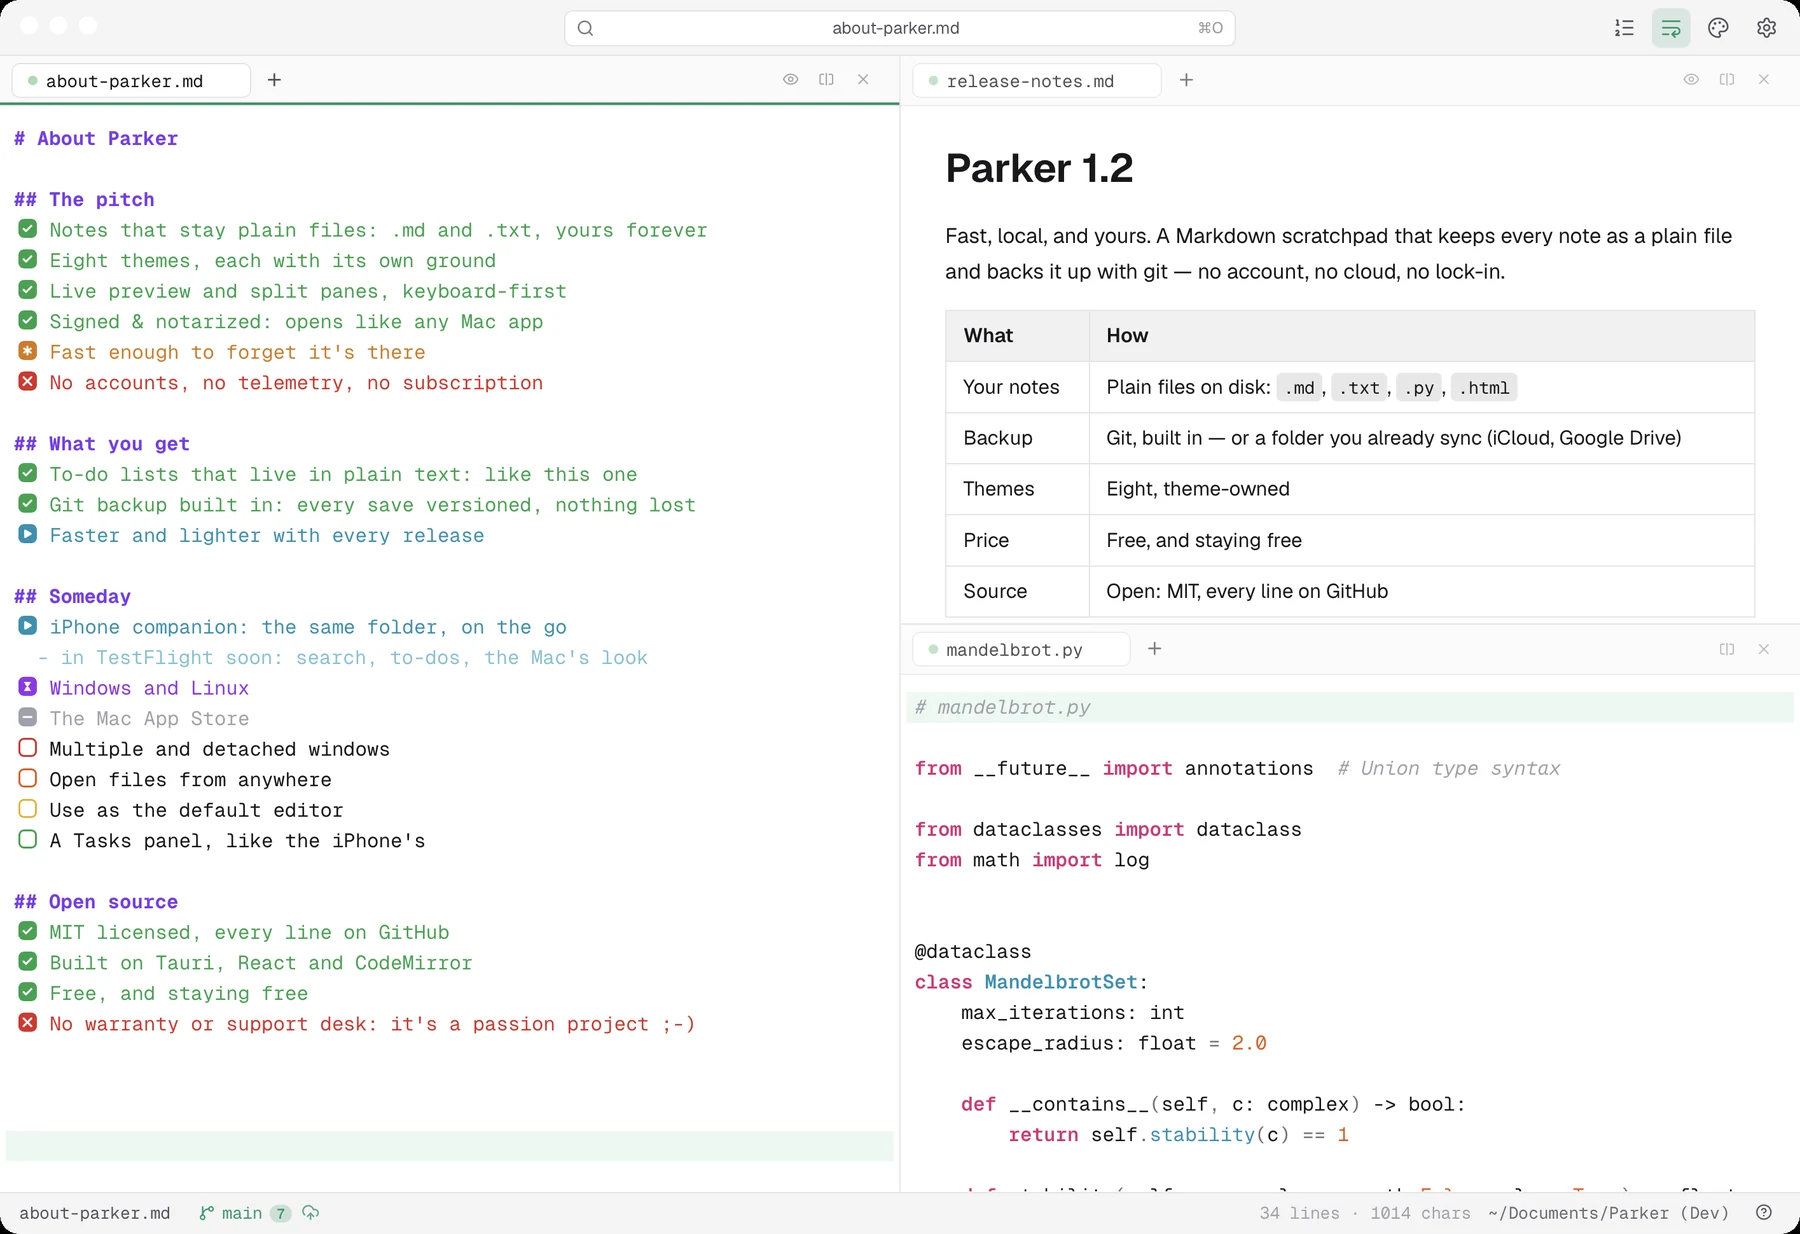
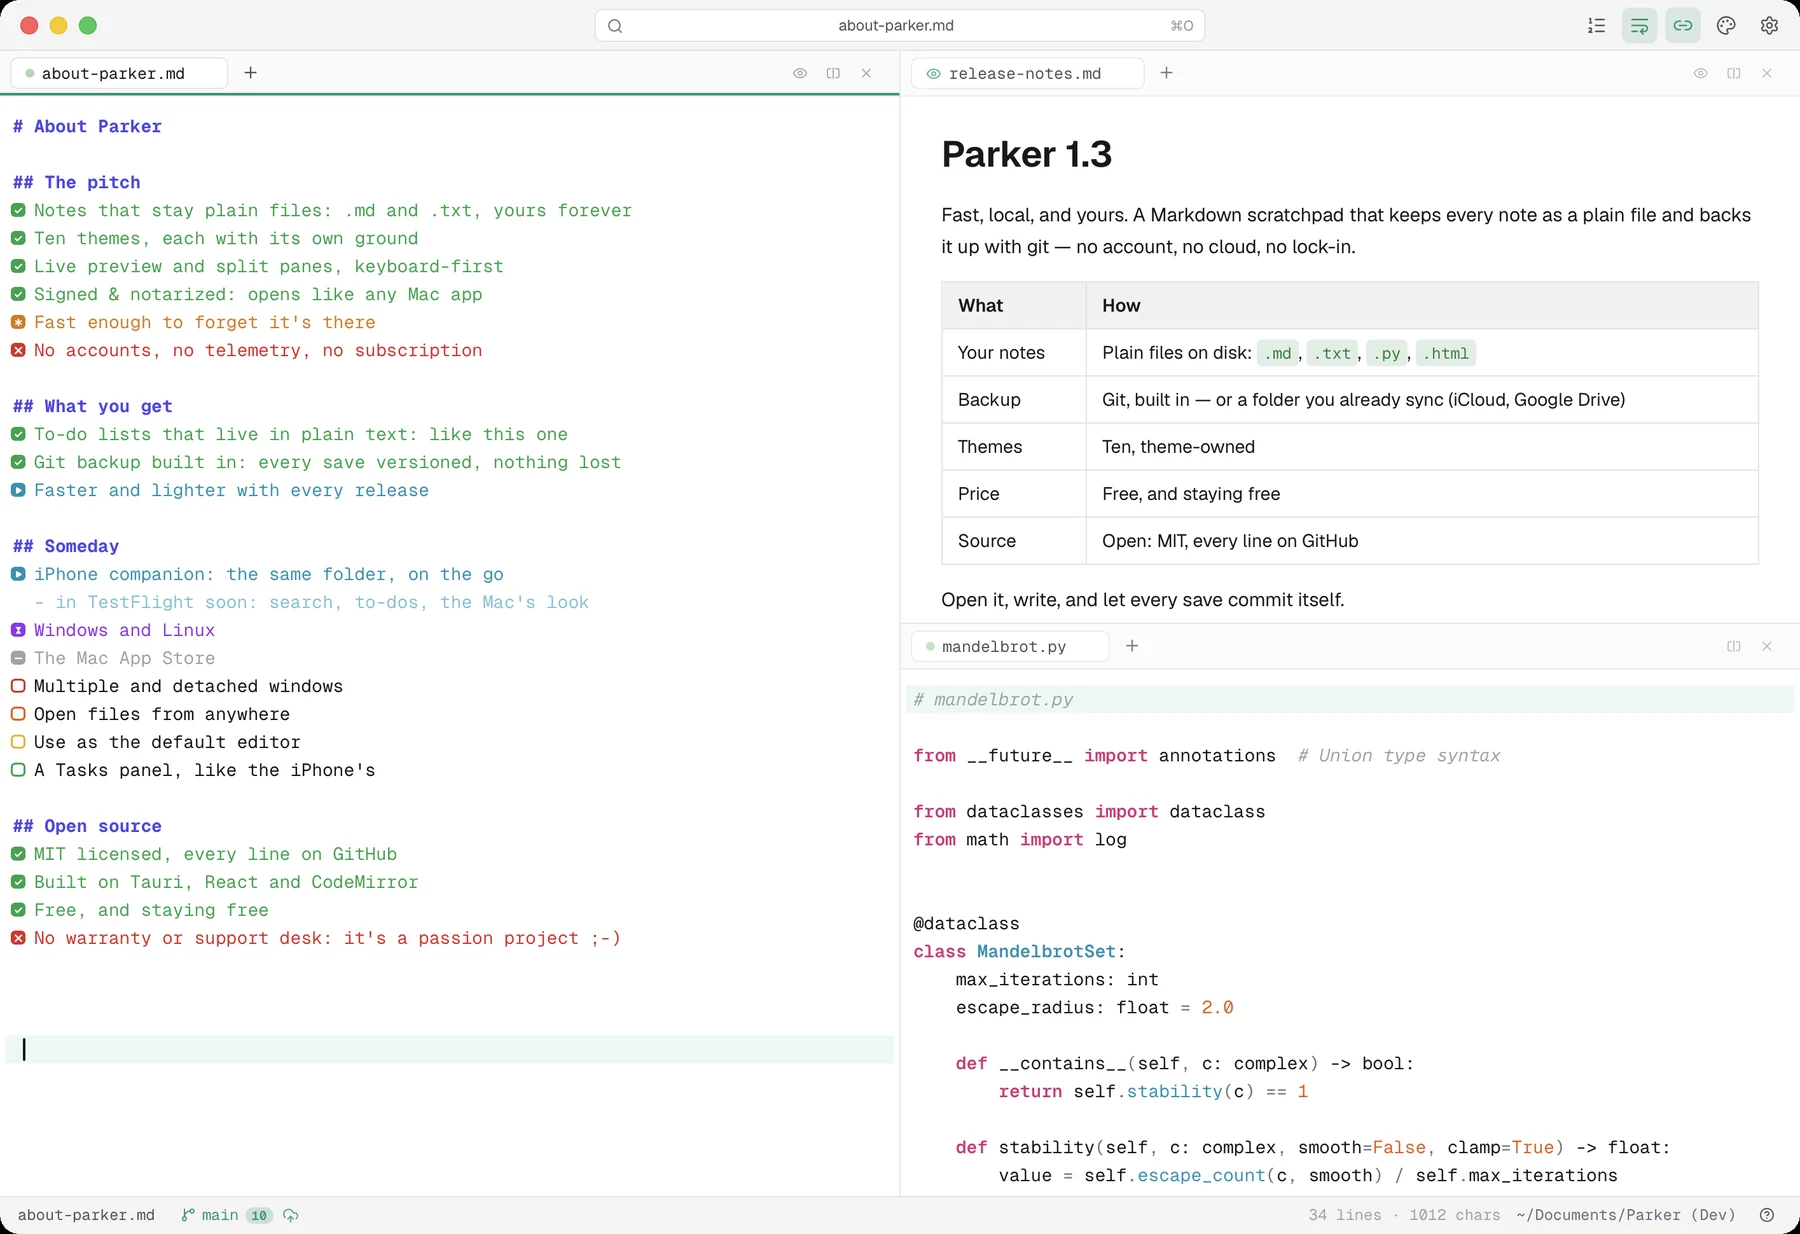
Release v1.3.0 — Parker Night and Day, lists on one axis, marks that keep their colour
The heros, re-shot with the 1.3.0 look (Parker Night, Parker Day) — same
scene, same window as 1.2.0. The features page counts ten themes and shows
the new house pair; the Vercel cards wear their new palette.

diff --git a/site/features/index.html b/site/features/index.html
@@ -367,7 +367,7 @@
     <!-- ───────────────────── 8. Themes ───────────────────── -->
     <section id="themes" class="section">
       <div class="section-head reveal">
-        <h2>Eight themes, and four of them are somewhere else.</h2>
+        <h2>Ten themes, and four of them are somewhere else.</h2>
         <p>
           Monochrome chrome so the app disappears, vivid syntax so the writing doesn't —
           then noon on the playa, the same place after dark, a phosphor tube and a
@@ -377,7 +377,29 @@
       </div>
 
       <div class="themes">
-        <figure class="theme-card reveal" style="--tbg:#000000; --tfg:#f4f4f5; --th:#a78bfa; --tb:#fbbf24; --tl:#22d3ee; --tc:#e879f9; --tm:#71717a; --tbd:#27272a">
+        <figure class="theme-card reveal" style="--tbg:#000000; --tfg:#f4f4f5; --th:#6366f1; --tb:#bef264; --tl:#e4e4e7; --tc:#4ade80; --tm:#71717a; --tbd:#27272a">
+          <div class="theme-code">
+            <div class="h"># Release notes</div>
+            <div><span class="b">**Ship it**</span> today</div>
+            <div class="l">- cut the tag</div>
+            <div><span class="c">`pnpm tauri build`</span></div>
+            <div class="m">// then tell everyone</div>
+          </div>
+          <figcaption>Parker Night</figcaption>
+        </figure>
+
+        <figure class="theme-card reveal" style="--tbg:#ffffff; --tfg:#18181b; --th:#4f46e5; --tb:#65a30d; --tl:#3f3f46; --tc:#15803d; --tm:#a1a1aa; --tbd:#e4e4e7">
+          <div class="theme-code">
+            <div class="h"># Release notes</div>
+            <div><span class="b">**Ship it**</span> today</div>
+            <div class="l">- cut the tag</div>
+            <div><span class="c">`pnpm tauri build`</span></div>
+            <div class="m">// then tell everyone</div>
+          </div>
+          <figcaption>Parker Day</figcaption>
+        </figure>
+
+        <figure class="theme-card reveal" style="--tbg:#000000; --tfg:#f4f4f5; --th:#e879f9; --tb:#e879f9; --tl:#e4e4e7; --tc:#4ade80; --tm:#71717a; --tbd:#27272a">
           <div class="theme-code">
             <div class="h"># Release notes</div>
             <div><span class="b">**Ship it**</span> today</div>
@@ -388,7 +410,7 @@
           <figcaption>Vercel Night</figcaption>
         </figure>
 
-        <figure class="theme-card reveal" style="--tbg:#ffffff; --tfg:#18181b; --th:#7c3aed; --tb:#d97706; --tl:#0891b2; --tc:#c026d3; --tm:#a1a1aa; --tbd:#e4e4e7">
+        <figure class="theme-card reveal" style="--tbg:#ffffff; --tfg:#18181b; --th:#c026d3; --tb:#c026d3; --tl:#3f3f46; --tc:#15803d; --tm:#a1a1aa; --tbd:#e4e4e7">
           <div class="theme-code">
             <div class="h"># Release notes</div>
             <div><span class="b">**Ship it**</span> today</div>
